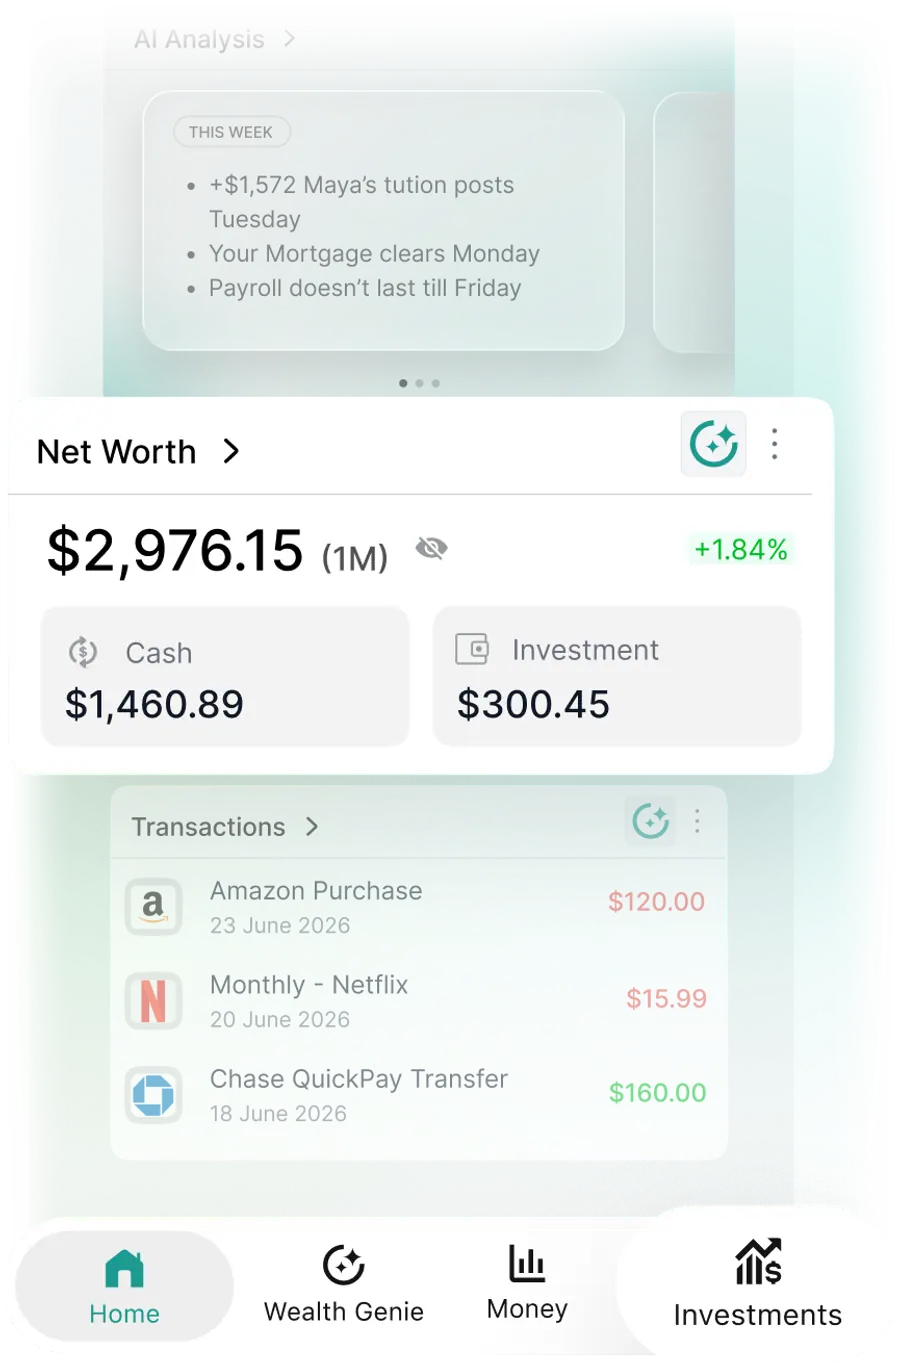
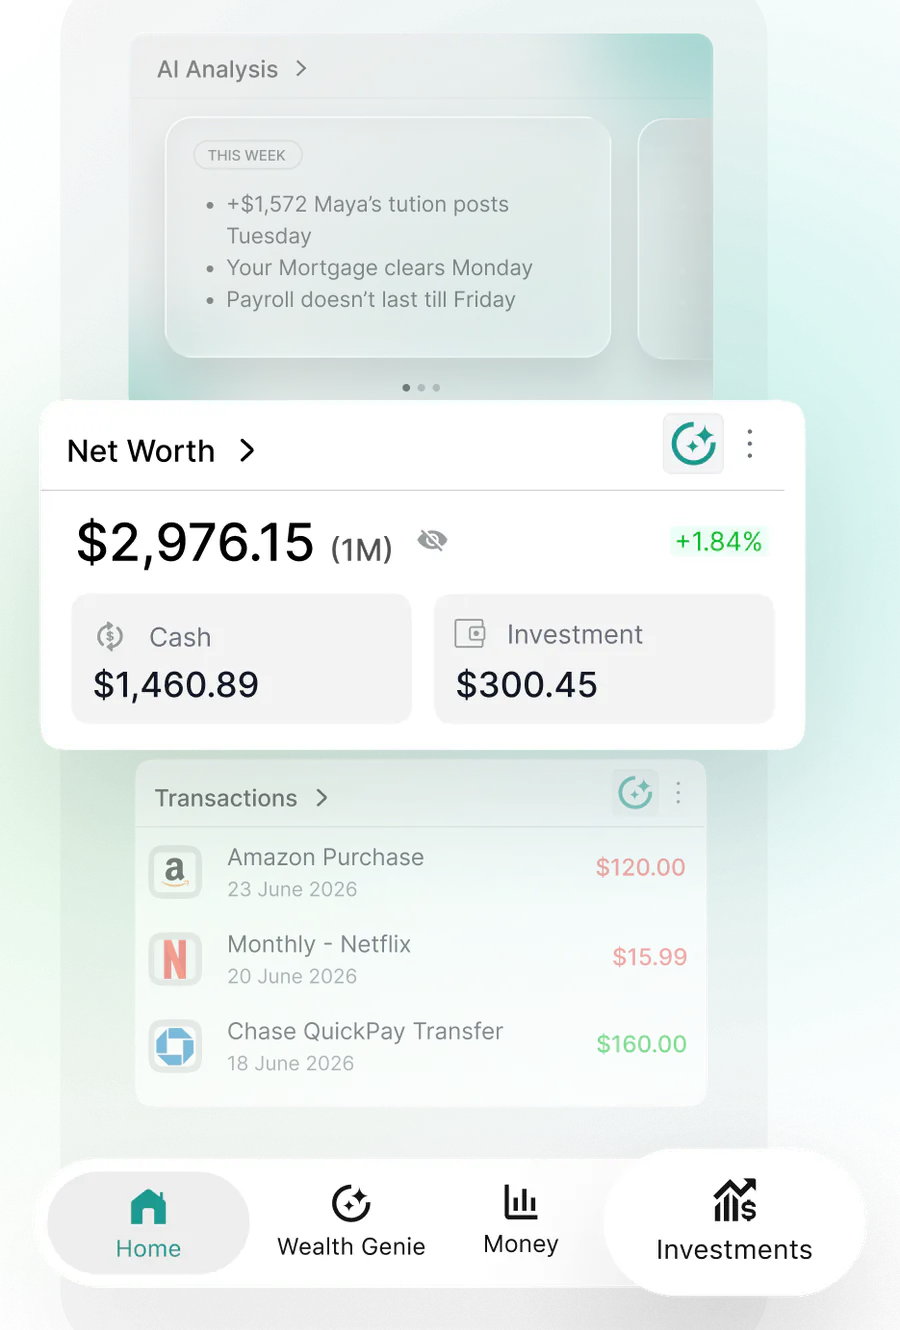
Update mobile layout and images for HomeWhy component, enhancing responsiveness and visual integration

diff --git a/src/page-components/HomeWhy.jsx b/src/page-components/HomeWhy.jsx
@@ -5,20 +5,28 @@ import Link from 'next/link';
 import './HomeWhy.css';
 
 const tabs = [
-  { id: 'proactive', label: 'AI Insights', img: '/assets/home-why-proactive.webp', w: 1500, h: 768, mob: '/assets/home-why-mob-proactive.webp', mw: 900, mh: 1174, alt: 'Proactive AI: a heads-up on upcoming bills, spending and budgets before you need it' },
-  { id: 'all-in-one', label: 'All-in-one', img: '/assets/home-why-all-in-one.webp', w: 1500, h: 802, mob: '/assets/home-why-mob-all-in-one.webp', mw: 900, mh: 1365, alt: 'All-in-one: your bank accounts, budgets, investments and crypto in one app' },
-  { id: 'voice-to-voice', label: 'Voice-to-Voice', img: '/assets/home-why-voice-to-voice.webp', w: 1500, h: 674, mob: '/assets/home-why-mob-voice-to-voice.webp', mw: 900, mh: 1720, alt: 'Voice-to-Voice: ask Wealth Genie out loud and hear the answer' },
-  { id: 'voice-to-action', label: 'Voice-to-Action', img: '/assets/home-why-voice-to-action.webp', w: 1500, h: 610, mob: '/assets/home-why-mob-voice-to-action.webp', mw: 900, mh: 1515, alt: 'Voice-to-Action: ask Wealth Genie about a savings goal and explore the numbers' },
-  { id: 'multi-assistants', label: 'Multi Assistants', img: '/assets/home-why-multi-assistants.webp', w: 1400, h: 837, mob: '/assets/home-why-mob-multi-assistants.webp', mw: 900, mh: 1545, alt: 'Multi Assistants: separate assistants for spending, stocks, crypto and custom views' },
+  { id: 'proactive', label: 'AI Insights', img: '/assets/home-why-proactive.webp', w: 1500, h: 768, mob: '/assets/home-why-mob-proactive.webp', mw: 900, mh: 1154, alt: 'Proactive AI: a heads-up on upcoming bills, spending and budgets before you need it' },
+  { id: 'all-in-one', label: 'All-in-one', img: '/assets/home-why-all-in-one.webp', w: 1500, h: 802, mob: '/assets/home-why-mob-all-in-one.webp', mw: 900, mh: 1330, alt: 'All-in-one: your bank accounts, budgets, investments and crypto in one app' },
+  { id: 'voice-to-voice', label: 'Voice-to-Voice', img: '/assets/home-why-voice-to-voice.webp', w: 1500, h: 674, mob: '/assets/home-why-mob-voice-to-voice.webp', mw: 900, mh: 1659, alt: 'Voice-to-Voice: ask Wealth Genie out loud and hear the answer' },
+  { id: 'voice-to-action', label: 'Voice-to-Action', img: '/assets/home-why-voice-to-action.webp', w: 1500, h: 610, mob: '/assets/home-why-mob-voice-to-action.webp', mw: 900, mh: 1471, alt: 'Voice-to-Action: ask Wealth Genie about a savings goal and explore the numbers' },
+  { id: 'multi-assistants', label: 'Multi Assistants', img: '/assets/home-why-multi-assistants.webp', w: 1400, h: 837, mob: '/assets/home-why-mob-multi-assistants.webp', mw: 900, mh: 1498, alt: 'Multi Assistants: separate assistants for spending, stocks, crypto and custom views' },
 ];
 
 const AUTO_MS = 6000;
+const MOBILE_MQ = '(max-width: 700px)';
+const isMobile = () => typeof window !== 'undefined' && window.matchMedia(MOBILE_MQ).matches;
+const reducedMotion = () => typeof window !== 'undefined' && window.matchMedia('(prefers-reduced-motion: reduce)').matches;
 
 export default function HomeWhy() {
   const [activeId, setActiveId] = useState(tabs[0].id);
   const baseId = useId();
   const tabRefs = useRef([]);
   const sectionRef = useRef(null);
+  const tabRowRef = useRef(null);
+  const stageRef = useRef(null);
+  const activeIndexRef = useRef(0);
+  const sizeToRef = useRef(null);
+  const tabFadeRef = useRef(null);
   const [paused, setPaused] = useState(false);
   const [visible, setVisible] = useState(false);
   const active = tabs.find((tab) => tab.id === activeId) || tabs[0];
@@ -37,6 +45,94 @@ export default function HomeWhy() {
     return () => clearTimeout(timer);
   }, [paused, visible, activeIndex]);
 
+  // Keep the active tab centred by scrolling only the tab row sideways (never the page, so nothing jumps vertically).
+  useEffect(() => {
+    const btn = tabRefs.current[activeIndex];
+    const row = tabRowRef.current;
+    if (!btn || !row || row.scrollWidth <= row.clientWidth) return;
+    const b = btn.getBoundingClientRect();
+    const r = row.getBoundingClientRect();
+    const max = row.scrollWidth - row.clientWidth;
+    const left = row.scrollLeft + (b.left - r.left) - (row.clientWidth - b.width) / 2;
+    row.scrollTo({ left: Math.min(max, Math.max(0, left)), behavior: reducedMotion() ? 'auto' : 'smooth' });
+    const t = setTimeout(() => tabFadeRef.current?.(), 700);
+    return () => clearTimeout(t);
+  }, [activeIndex]);
+
+  // Tab row: show the soft edge fades only on the sides that have more tabs to scroll to.
+  useEffect(() => {
+    const row = tabRowRef.current;
+    const wrap = row?.parentElement;
+    if (!row || !wrap) return undefined;
+    const update = () => {
+      const max = row.scrollWidth - row.clientWidth;
+      wrap.toggleAttribute('data-fade-start', row.scrollLeft > 2);
+      wrap.toggleAttribute('data-fade-end', max > 2 && row.scrollLeft < max - 2);
+    };
+    update();
+    tabFadeRef.current = update;
+    row.addEventListener('scroll', update, { passive: true });
+    const ro = new ResizeObserver(update);
+    ro.observe(row);
+    return () => { row.removeEventListener('scroll', update); ro.disconnect(); };
+  }, []);
+
+  // Phones: the stage is a swipeable scroll-snap carousel (one picture per slide, all at the stage width).
+  // Its height follows the visible picture's natural height, interpolated while sliding so it never jumps.
+  // Changing height only moves content below the stage, so window.scrollY and the section top never change.
+  useEffect(() => {
+    const stage = stageRef.current;
+    if (!stage) return undefined;
+    let settleTimer;
+    const sizeTo = () => {
+      if (!isMobile()) { stage.style.height = ''; return; }
+      const w = stage.clientWidth;
+      if (!w) return;
+      const pos = Math.min(tabs.length - 1, Math.max(0, stage.scrollLeft / w));
+      const i = Math.floor(pos);
+      const j = Math.min(tabs.length - 1, i + 1);
+      const t = pos - i;
+      const h = (tabs[i].mh / tabs[i].mw) * (1 - t) + (tabs[j].mh / tabs[j].mw) * t;
+      stage.style.height = `${Math.round(w * h)}px`;
+    };
+    const settle = () => {
+      if (!isMobile()) return;
+      const w = stage.clientWidth;
+      if (!w) return;
+      const index = Math.round(stage.scrollLeft / w);
+      if (tabs[index]) setActiveId(tabs[index].id);
+    };
+    const onScroll = () => {
+      sizeTo();
+      clearTimeout(settleTimer);
+      settleTimer = setTimeout(settle, 140);
+    };
+    sizeTo();
+    sizeToRef.current = sizeTo;
+    stage.addEventListener('scroll', onScroll, { passive: true });
+    const ro = new ResizeObserver(() => {
+      // Width changed (rotation / resize): keep the current slide aligned and re-size the stage.
+      if (isMobile()) stage.scrollLeft = activeIndexRef.current * stage.clientWidth;
+      sizeTo();
+    });
+    ro.observe(stage);
+    return () => { stage.removeEventListener('scroll', onScroll); ro.disconnect(); clearTimeout(settleTimer); };
+  }, []);
+
+  // Phones: tab clicks, dots and auto-advance slide the carousel sideways to the active picture.
+  useEffect(() => {
+    activeIndexRef.current = activeIndex;
+    const stage = stageRef.current;
+    if (!stage || !isMobile()) return undefined;
+    const w = stage.clientWidth;
+    if (w && Math.round(stage.scrollLeft / w) !== activeIndex) {
+      stage.scrollTo({ left: activeIndex * w, behavior: reducedMotion() ? 'auto' : 'smooth' });
+    }
+    // Safety net: if no scroll events arrive (background tab, interrupted animation), still settle the height.
+    const t = setTimeout(() => sizeToRef.current?.(), 700);
+    return () => clearTimeout(t);
+  }, [activeIndex]);
+
   const onKeyDown = (event, index) => {
     const keys = ['ArrowLeft', 'ArrowRight', 'Home', 'End'];
     if (!keys.includes(event.key)) return;
@@ -45,7 +141,7 @@ export default function HomeWhy() {
       : event.key === 'End' ? tabs.length - 1
         : (index + (event.key === 'ArrowRight' ? 1 : -1) + tabs.length) % tabs.length;
     setActiveId(tabs[next].id);
-    tabRefs.current[next]?.focus();
+    tabRefs.current[next]?.focus({ preventScroll: true });
   };
 
   return (
@@ -54,7 +150,7 @@ export default function HomeWhy() {
         <div className="hw2-head">
           <h2 className="hw2-title" id="why-title" data-reveal>Why <b>WealthNX</b></h2>
           <div className="hw2-tabs-wrap">
-            <div className="hw2-tabs" role="tablist" aria-label="Why WealthNX">
+            <div ref={tabRowRef} className="hw2-tabs" role="tablist" aria-label="Why WealthNX">
               {tabs.map((tab, index) => (
                 <button
                   key={tab.id}
@@ -66,7 +162,7 @@ export default function HomeWhy() {
                   aria-selected={tab.id === active.id}
                   aria-controls={`${baseId}-panel-${tab.id}`}
                   tabIndex={tab.id === active.id ? 0 : -1}
-                  onClick={(event) => { setActiveId(tab.id); event.currentTarget.scrollIntoView({ block: 'nearest', inline: 'nearest' }); }}
+                  onClick={() => setActiveId(tab.id)}
                   onKeyDown={(event) => onKeyDown(event, index)}
                 >
                   {tab.label}
@@ -76,7 +172,10 @@ export default function HomeWhy() {
           </div>
         </div>
         <div
+          ref={stageRef}
           className="hw2-stage" data-reveal="fade"
+          onTouchStart={() => setPaused(true)}
+          onTouchEnd={() => setPaused(false)}
           id={`${baseId}-panel-${active.id}`}
           role="tabpanel"
           aria-labelledby={`${baseId}-tab-${active.id}`}

diff --git a/src/page-components/HomeWhy.css b/src/page-components/HomeWhy.css
@@ -95,10 +95,6 @@
   transition: opacity .35s ease, visibility 0s linear .35s;
 }
 .hw2-stage img.is-shown { opacity: 1; visibility: visible; transition-delay: 0s; }
-@media (max-width: 700px) {
-  .hw2-stage { margin-top: 20px; }
-  .hw2-stage img { max-height: none; }
-}
 
 .hw2-dots { display: flex; justify-content: center; gap: 8px; margin-top: 16px; }
 .hw2-dots button { width: 8px; height: 8px; min-width: 0; padding: 0; border: 0; border-radius: 50%; background: #cfcfcf; cursor: pointer; transition: background .3s; }
@@ -124,25 +120,108 @@
 /* Phones get their own portrait pictures (<picture> in HomeWhy.jsx); the wrapper must not disturb the stacked grid. */
 .hw2-stage picture { display: contents; }
 
-/* Phones: the pictures were too small; let them run a little wider than the panel (their empty margin absorbs it). */
-@media (max-width: 700px) {
-  .hw2-stage img { width: 120%; max-width: none; }
-}
+.hw2-section, .hw2-tabs, .hw2-stage { overflow-anchor: none; }
 
-/* Phones: bigger heading and tabs, narrower side padding so the pictures can be larger. */
+/* ======================================================================================================
+   Phones (<=700px): self-contained layout. Desktop rules above are untouched; everything here only
+   overrides them below 701px.
+   - Tabs: a horizontally scrollable row of separate pills (scroll-snap, hidden scrollbar, edge fades).
+   - Stage: a swipeable scroll-snap carousel; each <picture> is one slide at 100% of the stage width,
+     natural height. HomeWhy.jsx sets the stage height to the visible slide (interpolated while sliding).
+   - Pictures (public/assets/home-why-mob-*.webp) carry ~3.7% transparent margin on every side; the
+     mask fades only inside that margin (3cqi), so the soft glow blends into the panel and no text is cut.
+   ====================================================================================================== */
 @media (max-width: 700px) {
-  .hw2-container { padding: 44px 6px 40px; }
+  .hw2-container { padding: 44px 16px 40px; }
   .home-redesign .hw2-title { font-size: 38px !important; line-height: 1.12; }
-  .hw2-tab { height: 40px; padding: 0 18px; font-size: 14.5px; }
-  .hw2-stage img { width: 116%; }
-}
 
-/* Phones: the portrait pictures are trimmed tight, so they fill the panel width with no cropping and only a light edge fade. */
-@media (max-width: 700px) {
-  .hw2-container { padding-left: 4px; padding-right: 4px; }
-  .hw2-stage img {
-    width: 100%; max-width: 100%;
-    -webkit-mask-image: linear-gradient(to right, transparent 0, #000 2%, #000 98%, transparent 100%), linear-gradient(to bottom, transparent 0, #000 3%, #000 97%, transparent 100%);
-    mask-image: linear-gradient(to right, transparent 0, #000 2%, #000 98%, transparent 100%), linear-gradient(to bottom, transparent 0, #000 3%, #000 97%, transparent 100%);
+  /* Tabs: full panel width row, 16px edge padding, active pill centred by JS (row.scrollTo). */
+  .hw2-tabs-wrap { position: relative; margin: 26px -16px 0; }
+  .hw2-tabs {
+    display: flex;
+    gap: 8px;
+    width: 100%;
+    max-width: none;
+    padding: 2px 16px;
+    border-radius: 0;
+    background: transparent;
+    overflow-x: auto;
+    overflow-y: hidden;
+    overscroll-behavior-x: contain;
+    scroll-snap-type: x proximity;
+    scroll-padding-inline: 16px;
   }
+  .hw2-tab {
+    position: relative;
+    height: 42px;
+    padding: 0 18px;
+    font-size: 15px;
+    font-weight: 500;
+    color: #555;
+    background: #f1f1f1;
+    scroll-snap-align: center;
+  }
+  .hw2-tab[aria-selected='true'] { background: #000; color: #fff; }
+  .hw2-tab:focus-visible { outline-offset: -2px; }
+  .hw2-tabs-wrap::before,
+  .hw2-tabs-wrap::after {
+    content: '';
+    position: absolute;
+    top: 0;
+    bottom: 0;
+    z-index: 1;
+    width: 32px;
+    pointer-events: none;
+    opacity: 0;
+    transition: opacity .2s ease;
+  }
+  .hw2-tabs-wrap::before { left: 0; background: linear-gradient(to right, #fff 20%, rgba(255, 255, 255, 0)); }
+  .hw2-tabs-wrap::after { right: 0; background: linear-gradient(to left, #fff 20%, rgba(255, 255, 255, 0)); }
+  .hw2-tabs-wrap[data-fade-start]::before,
+  .hw2-tabs-wrap[data-fade-end]::after { opacity: 1; }
+
+  /* Stage: horizontal scroll-snap carousel, nearly full panel width. HomeWhy.jsx sets its height (no aspect-ratio here:
+     with an explicit height it would derive the width from it). */
+  .hw2-stage {
+    display: flex;
+    align-items: flex-start;
+    width: auto;
+    max-width: none;
+    margin: 22px -12px 0;
+    aspect-ratio: auto;
+    overflow-x: auto;
+    overflow-y: hidden;
+    overscroll-behavior-x: contain;
+    scroll-snap-type: x mandatory;
+    scrollbar-width: none;
+    -webkit-overflow-scrolling: touch;
+    touch-action: pan-x pan-y;
+  }
+  .hw2-stage::-webkit-scrollbar { display: none; }
+  .hw2-stage:focus-visible { outline-offset: -2px; border-radius: 20px; }
+  .hw2-stage picture {
+    display: block;
+    flex: 0 0 100%;
+    width: 100%;
+    min-width: 0;
+    container-type: inline-size;
+    scroll-snap-align: center;
+    scroll-snap-stop: always;
+  }
+  .hw2-stage img {
+    display: block;
+    width: 100%;
+    max-width: 100%;
+    height: auto;
+    opacity: 1;
+    visibility: visible;
+    transition: none;
+    -webkit-mask-image: linear-gradient(to right, transparent 0, #000 3cqi, #000 calc(100% - 3cqi), transparent 100%), linear-gradient(to bottom, transparent 0, #000 3cqi, #000 calc(100% - 3cqi), transparent 100%);
+    -webkit-mask-composite: source-in;
+    mask-image: linear-gradient(to right, transparent 0, #000 3cqi, #000 calc(100% - 3cqi), transparent 100%), linear-gradient(to bottom, transparent 0, #000 3cqi, #000 calc(100% - 3cqi), transparent 100%);
+    mask-composite: intersect;
+  }
+
+  .hw2-dots { margin-top: 18px; }
+  .home-redesign .hw2-viewall { margin-top: 26px; }
 }

diff --git a/src/page-components/FeatureMobile.css b/src/page-components/FeatureMobile.css
@@ -184,3 +184,15 @@
   .feature-detail-template.fdt-features .fdt-orbit__arrow--prev { left: calc(50% - 150px); }
   .feature-detail-template.fdt-features .fdt-orbit__arrow--next { right: calc(50% - 150px); left: auto; }
 }
+
+/* /features/ phones: match the reference slide: roomy pill tabs, larger icon, 30px title and larger grey description. */
+@media (max-width: 700px) {
+  body .feature-detail-template.fdt-features .fdt-tabs { flex-wrap: nowrap; overflow-x: auto; justify-content: flex-start; gap: 10px; padding: 4px 2px; scroll-snap-type: x proximity; scrollbar-width: none; -webkit-overflow-scrolling: touch; }
+  body .feature-detail-template.fdt-features .fdt-tabs::-webkit-scrollbar { display: none; }
+  body .feature-detail-template.fdt-features .fdt-tabs button { flex: 0 0 auto; min-width: 0; padding: 14px 22px; font-size: 15px; font-weight: 600; white-space: nowrap; line-height: 1.1; scroll-snap-align: center; }
+  body .feature-detail-template.fdt-features .fdt-tabs .is-active { flex: 0 0 auto; padding: 18px 28px; font-size: 16px; }
+  body .feature-detail-template.fdt-features .fdt-orbit .fdt-orbit__badge.is-active { width: 56px; height: 56px; }
+  body .feature-detail-template.fdt-features .fdt-orbit .fdt-orbit__heading h2 { font-size: 30px !important; line-height: 1.15; }
+  body .feature-detail-template.fdt-features .fdt-orbit .fdt-orbit__heading p { font-size: 17px; line-height: 1.5; color: #8fa39f; max-width: 340px; margin-top: 14px; }
+  body .feature-detail-template.fdt-features .fdt-orbit > img { max-width: 100%; max-height: none; }
+}

diff --git a/src/page-components/HomeRedesign.css b/src/page-components/HomeRedesign.css
@@ -204,11 +204,16 @@
 @media (max-width: 600px) {
   .home-redesign .hr-insights__copy h2 { font-size: 30px !important; line-height: 1.15; }
   .home-redesign .hr-insights__visual { overflow: visible; margin-top: -70px; }
-  .home-redesign .hr-insights__visual img { width: 150%; max-width: none; margin-left: -25%; }
+  .home-redesign .hr-insights__visual img { width: 125%; max-width: none; margin-left: -12.5%; }
 }
 
 /* Phones: the insights picture has empty space below the cards; close it up so the section joins the next one. */
 @media (max-width: 600px) {
   .home-redesign .hr-insights { padding-bottom: 0; }
   .home-redesign .hr-insights__visual { margin-bottom: -170px; }
+}
+
+/* Phones: the rotating audience always sits on its own line, so short words do not pull up onto "Assistant for" and the hero height never changes while it types (that jumped the whole page). */
+@media (max-width: 700px) {
+  .home-redesign .fdt-hero h1 em.hr-audience { display: block; min-height: 1.3em; }
 }
